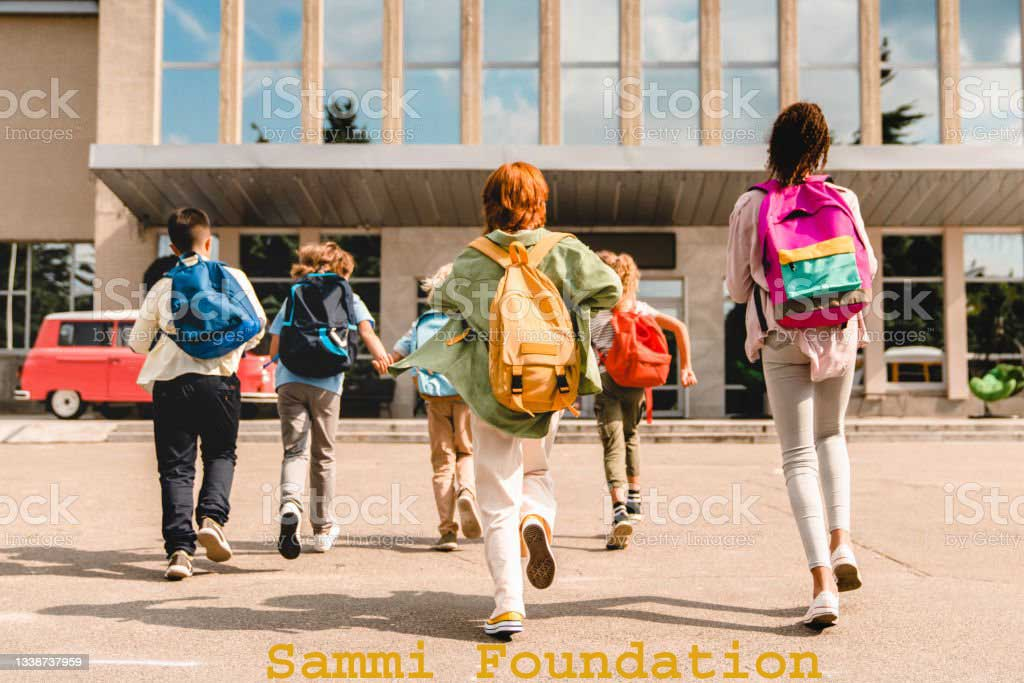
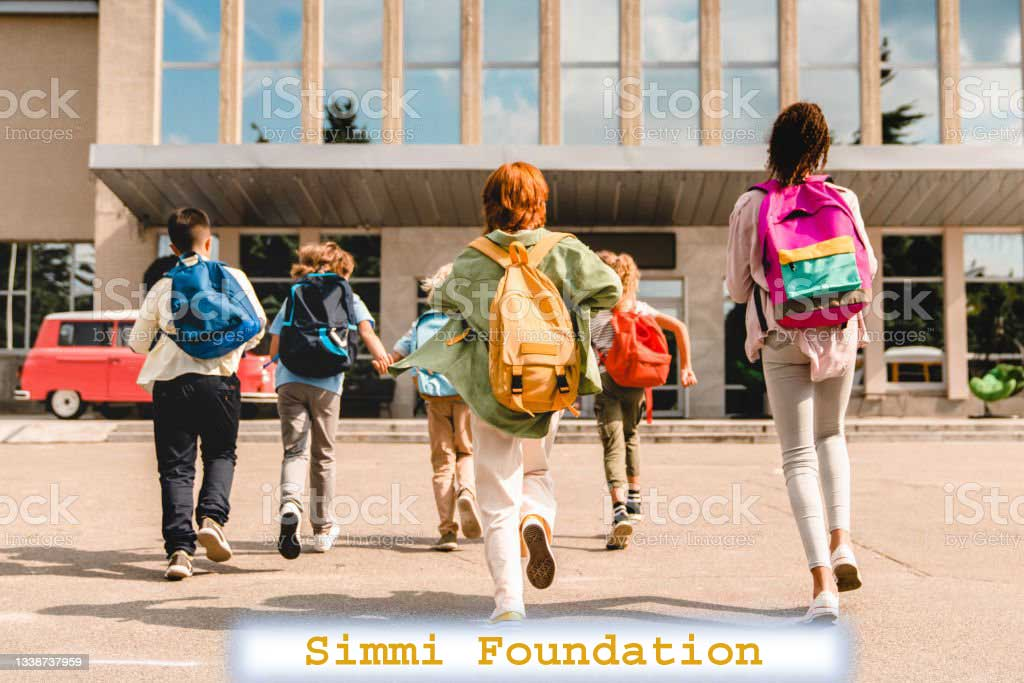
imgbb uploaded img setup jsx

Changed region(s): [[0.2188, 0.8917, 0.8438, 1.0]]

diff --git a/src/component/Slider/Slider.js b/src/component/Slider/Slider.js
@@ -18,7 +18,7 @@ const Slider = () => {
                 spaceBetween={30}
                 centeredSlides={true}
                 autoplay={{
-                    delay: 2500,
+                    delay: 3000,
                     disableOnInteraction: false,
                 }}
                 pagination={{
@@ -31,21 +31,21 @@ const Slider = () => {
                 <SwiperSlide>
                     <img
                         className="object-fill w-full h-96"
-                        src="https://i.ibb.co/KmtQm0s/slider3.jpg"
+                        src="https://i.ibb.co/85WY3PG/slider2.jpg"
                         alt="image slide 1"
                     />
                 </SwiperSlide>
                 <SwiperSlide>
                     <img
                         className="object-fill w-full h-96"
-                        src="https://i.ibb.co/yNmchZz/slider2.jpg"
+                        src="https://i.ibb.co/s2qmV8C/slider3.jpg"
                         alt="image slide 2"
                     />
                 </SwiperSlide>
                 <SwiperSlide>
                     <img
                         className="object-fill w-full h-96"
-                        src="https://i.ibb.co/s32XvVH/slider1.jpg"
+                        src="https://i.ibb.co/5T43QC1/slider1.jpg"
                         alt="image slide 3"
                     />
                 </SwiperSlide>

diff --git a/public/index.html b/public/index.html
@@ -24,7 +24,7 @@
       work correctly both with client-side routing and a non-root public URL.
       Learn how to configure a non-root public URL by running `npm run build`.
     -->
-    <title>Assignment Sammi Foundation</title>
+    <title>Assignment Simmi Foundation</title>
   </head>
   <body>
     <noscript>You need to enable JavaScript to run this app.</noscript>
